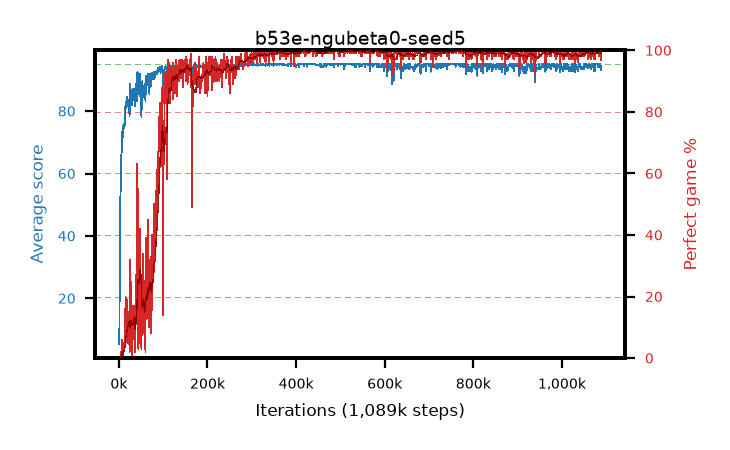
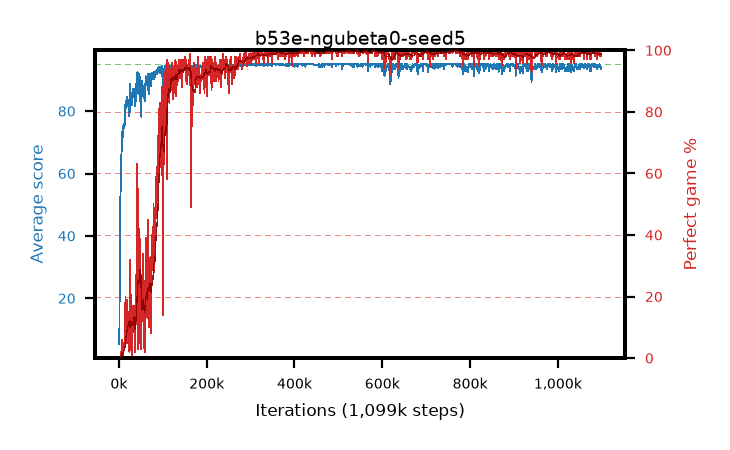
live pictures of 4 arm(s)

diff --git a/results/b53g-ngubeta0-seed7/b53g-ngubeta0-seed7.md b/results/b53g-ngubeta0-seed7/b53g-ngubeta0-seed7.md
@@ -1,6 +1,6 @@
 # b53g-ngubeta0-seed7
 
-step **1,099,000** · 1099 evals · trailing **94.78** · peak **94.97** @274,000 · sef **89.9** · best30 **99.8** @348,000
+step **1,109,000** · 1109 evals · trailing **94.87** · peak **94.97** @274,000 · sef **90.0** · best30 **99.8** @1,108,000
 
 ## Config
 
@@ -80,15 +80,15 @@ step **1,099,000** · 1099 evals · trailing **94.78** · peak **94.97** @274,00
 | 2000 | 37.8 | 20.34 | 6.0 | 63.0 | 32.628 | 0.0 | 0.4 |
 | 3000 | 67.99 | 36.22 | 23.0 | 95.0 | 74.006 | 11.0 | 0.4 |
 | ... | ... | ... | ... | ... | ... | ... | ... |
-| 1088000 | 95.0 | 94.53 | 95.0 | 95.0 | 193.789 | 100.0 | 0.4 |
-| 1089000 | 95.0 | 94.55 | 95.0 | 95.0 | 193.788 | 100.0 | 0.4 |
-| 1090000 | 95.0 | 94.55 | 95.0 | 95.0 | 193.79 | 100.0 | 0.4 |
-| 1091000 | 95.0 | 94.57 | 95.0 | 95.0 | 193.784 | 100.0 | 0.4 |
-| 1092000 | 95.0 | 94.64 | 95.0 | 95.0 | 193.787 | 100.0 | 0.4 |
-| 1093000 | 94.25 | 94.67 | 20.0 | 95.0 | 191.996 | 99.0 | 0.4 |
-| 1094000 | 95.0 | 94.7 | 95.0 | 95.0 | 193.794 | 100.0 | 0.4 |
-| 1095000 | 95.0 | 94.73 | 95.0 | 95.0 | 193.788 | 100.0 | 0.4 |
-| 1096000 | 95.0 | 94.73 | 95.0 | 95.0 | 193.79 | 100.0 | 0.4 |
-| 1097000 | 95.0 | 94.73 | 95.0 | 95.0 | 193.793 | 100.0 | 0.4 |
 | 1098000 | 95.0 | 94.76 | 95.0 | 95.0 | 193.783 | 100.0 | 0.4 |
 | 1099000 | 95.0 | 94.78 | 95.0 | 95.0 | 193.779 | 100.0 | 0.4 |
+| 1100000 | 94.26 | 94.78 | 21.0 | 95.0 | 192.005 | 99.0 | 0.4 |
+| 1101000 | 95.0 | 94.81 | 95.0 | 95.0 | 193.795 | 100.0 | 0.4 |
+| 1102000 | 95.0 | 94.81 | 95.0 | 95.0 | 193.792 | 100.0 | 0.4 |
+| 1103000 | 94.3 | 94.81 | 25.0 | 95.0 | 192.047 | 99.0 | 0.4 |
+| 1104000 | 95.0 | 94.81 | 95.0 | 95.0 | 193.796 | 100.0 | 0.4 |
+| 1105000 | 95.0 | 94.81 | 95.0 | 95.0 | 193.789 | 100.0 | 0.4 |
+| 1106000 | 95.0 | 94.86 | 95.0 | 95.0 | 193.794 | 100.0 | 0.4 |
+| 1107000 | 95.0 | 94.86 | 95.0 | 95.0 | 193.792 | 100.0 | 0.4 |
+| 1108000 | 95.0 | 94.87 | 95.0 | 95.0 | 193.779 | 100.0 | 0.4 |
+| 1109000 | 95.0 | 94.87 | 95.0 | 95.0 | 193.79 | 100.0 | 0.4 |

diff --git a/results/b53e-ngubeta0-seed5/b53e-ngubeta0-seed5.md b/results/b53e-ngubeta0-seed5/b53e-ngubeta0-seed5.md
@@ -1,6 +1,6 @@
 # b53e-ngubeta0-seed5
 
-step **1,089,000** · 1089 evals · trailing **94.38** · peak **94.95** @437,000 · sef **90.7** · best30 **99.8** @530,000
+step **1,099,000** · 1099 evals · trailing **94.37** · peak **94.95** @437,000 · sef **90.8** · best30 **99.8** @530,000
 
 ## Config
 
@@ -80,15 +80,15 @@ step **1,089,000** · 1089 evals · trailing **94.38** · peak **94.95** @437,00
 | 2000 | 29.39 | 17.35 | 3.0 | 54.0 | 24.459 | 0.0 | 0.4 |
 | 3000 | 50.81 | 28.5 | 16.0 | 85.0 | 45.457 | 0.0 | 0.4 |
 | ... | ... | ... | ... | ... | ... | ... | ... |
-| 1078000 | 95.0 | 94.41 | 95.0 | 95.0 | 193.789 | 100.0 | 0.4 |
-| 1079000 | 95.0 | 94.41 | 95.0 | 95.0 | 193.783 | 100.0 | 0.4 |
-| 1080000 | 95.0 | 94.42 | 95.0 | 95.0 | 193.786 | 100.0 | 0.4 |
-| 1081000 | 94.17 | 94.44 | 12.0 | 95.0 | 191.919 | 99.0 | 0.4 |
-| 1082000 | 94.18 | 94.41 | 13.0 | 95.0 | 191.916 | 99.0 | 0.4 |
-| 1083000 | 95.0 | 94.43 | 95.0 | 95.0 | 193.785 | 100.0 | 0.4 |
-| 1084000 | 94.21 | 94.41 | 19.0 | 95.0 | 190.96 | 98.0 | 0.4 |
-| 1085000 | 94.17 | 94.38 | 12.0 | 95.0 | 191.917 | 99.0 | 0.4 |
-| 1086000 | 95.0 | 94.38 | 95.0 | 95.0 | 193.787 | 100.0 | 0.4 |
-| 1087000 | 94.88 | 94.4 | 83.0 | 95.0 | 192.66 | 99.0 | 0.4 |
 | 1088000 | 94.24 | 94.4 | 19.0 | 95.0 | 191.983 | 99.0 | 0.4 |
 | 1089000 | 93.31 | 94.38 | 18.0 | 95.0 | 189.02 | 97.0 | 0.4 |
+| 1090000 | 93.42 | 94.37 | 12.0 | 95.0 | 190.131 | 98.0 | 0.4 |
+| 1091000 | 94.9 | 94.36 | 85.0 | 95.0 | 192.694 | 99.0 | 0.4 |
+| 1092000 | 94.97 | 94.39 | 92.0 | 95.0 | 192.707 | 99.0 | 0.4 |
+| 1093000 | 94.37 | 94.37 | 32.0 | 95.0 | 192.119 | 99.0 | 0.4 |
+| 1094000 | 94.15 | 94.36 | 10.0 | 95.0 | 191.897 | 99.0 | 0.4 |
+| 1095000 | 95.0 | 94.38 | 95.0 | 95.0 | 193.784 | 100.0 | 0.4 |
+| 1096000 | 94.23 | 94.41 | 23.0 | 95.0 | 190.97 | 98.0 | 0.4 |
+| 1097000 | 94.28 | 94.41 | 23.0 | 95.0 | 192.022 | 99.0 | 0.4 |
+| 1098000 | 94.25 | 94.39 | 20.0 | 95.0 | 191.995 | 99.0 | 0.4 |
+| 1099000 | 93.48 | 94.37 | 14.0 | 95.0 | 190.179 | 98.0 | 0.4 |
